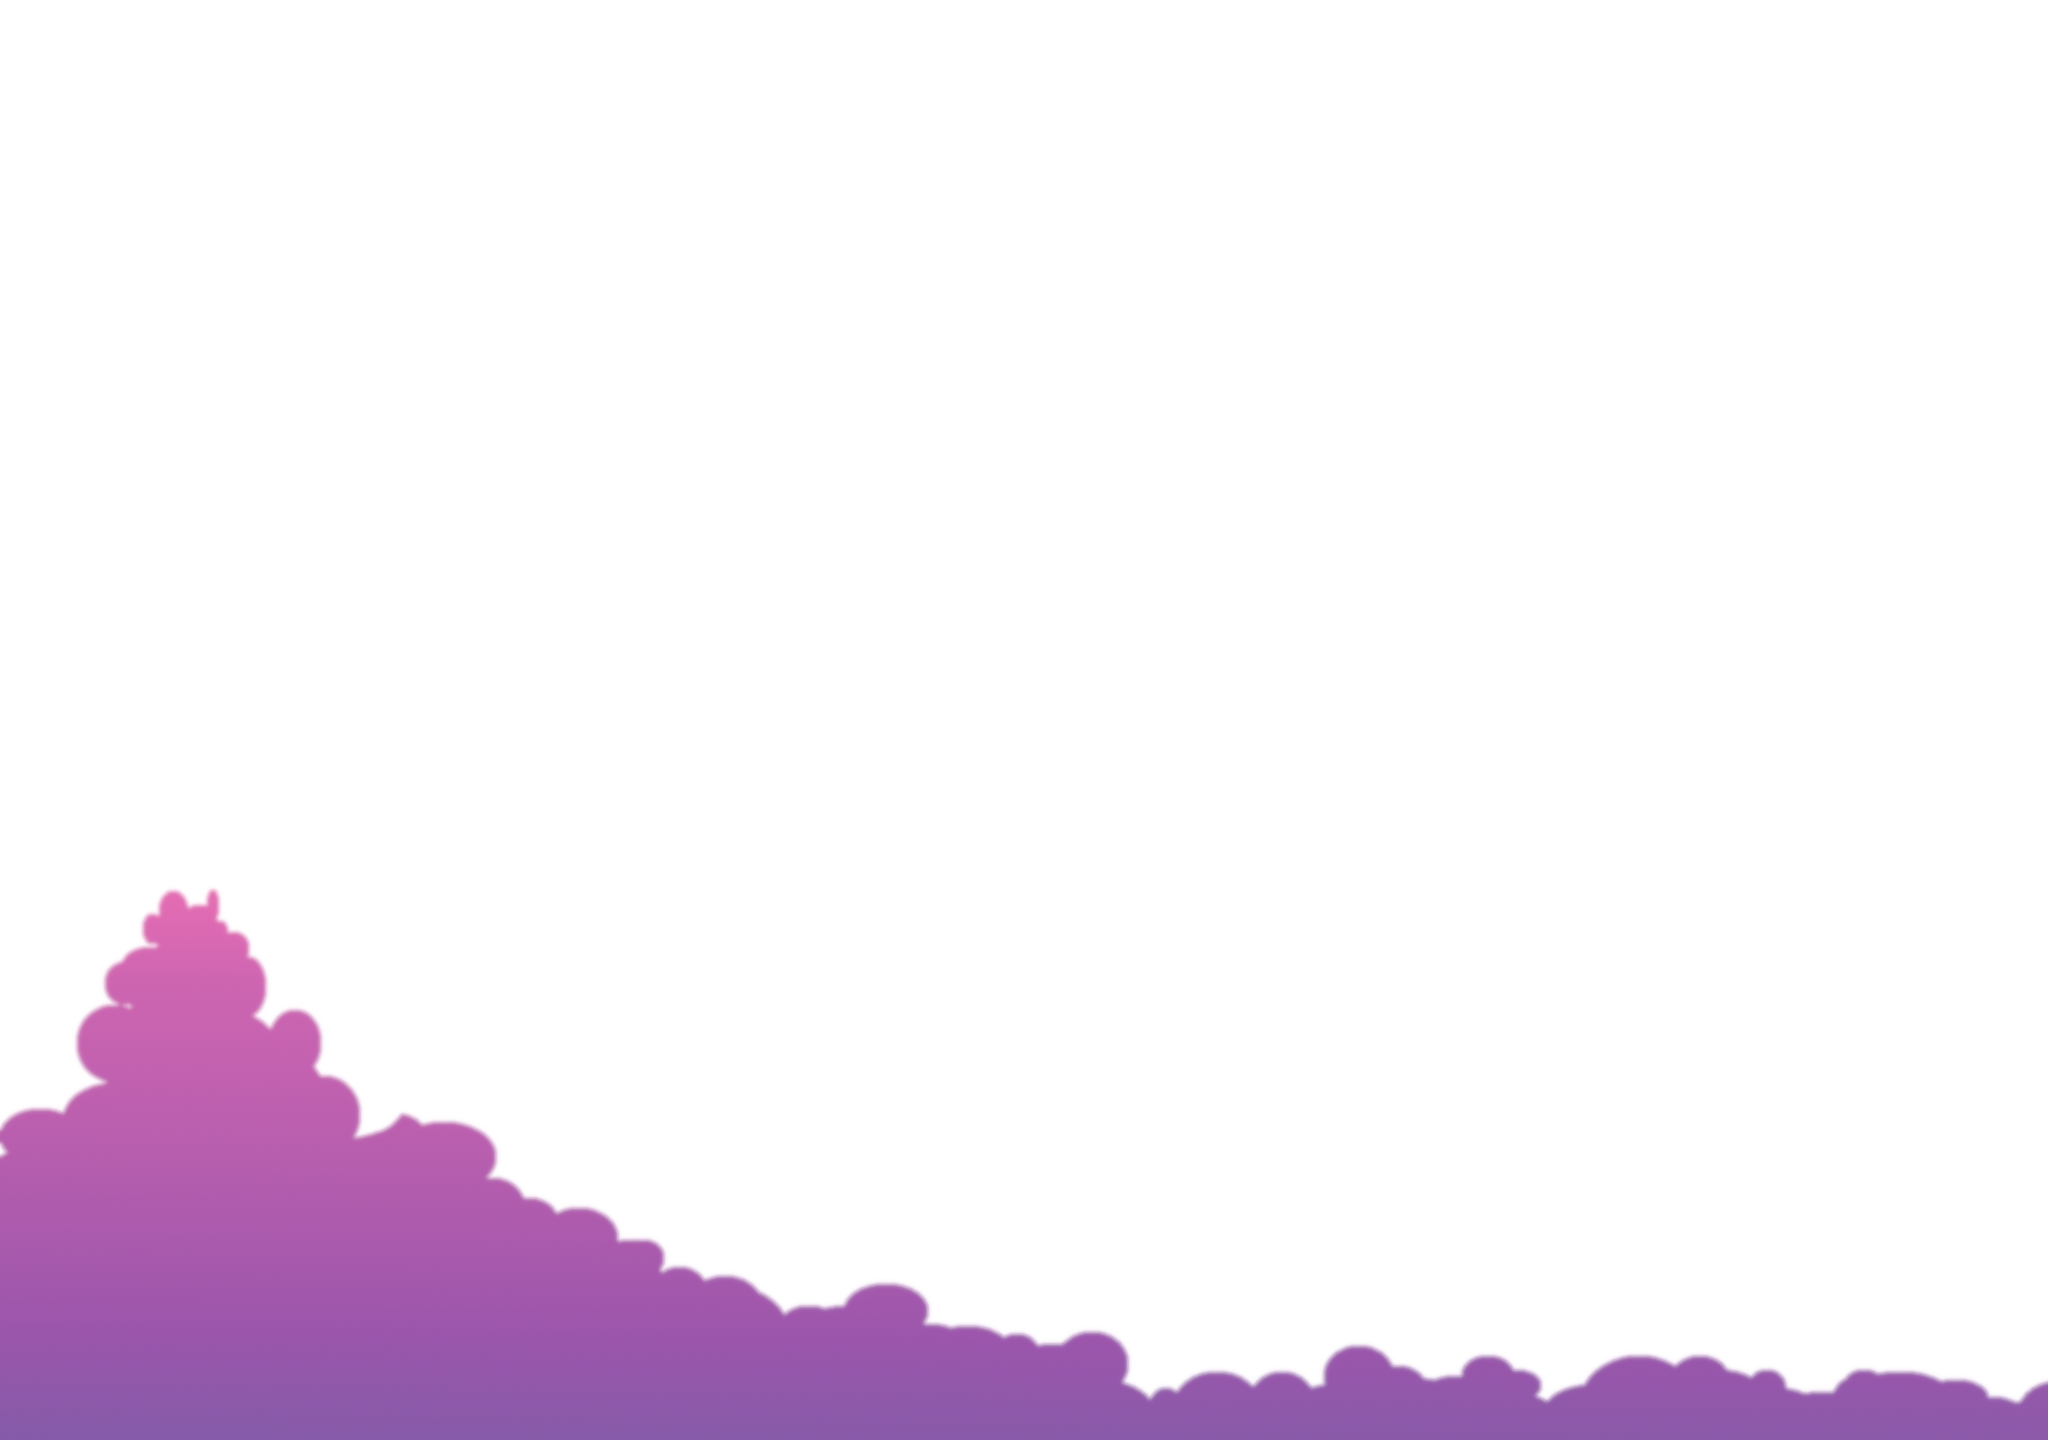
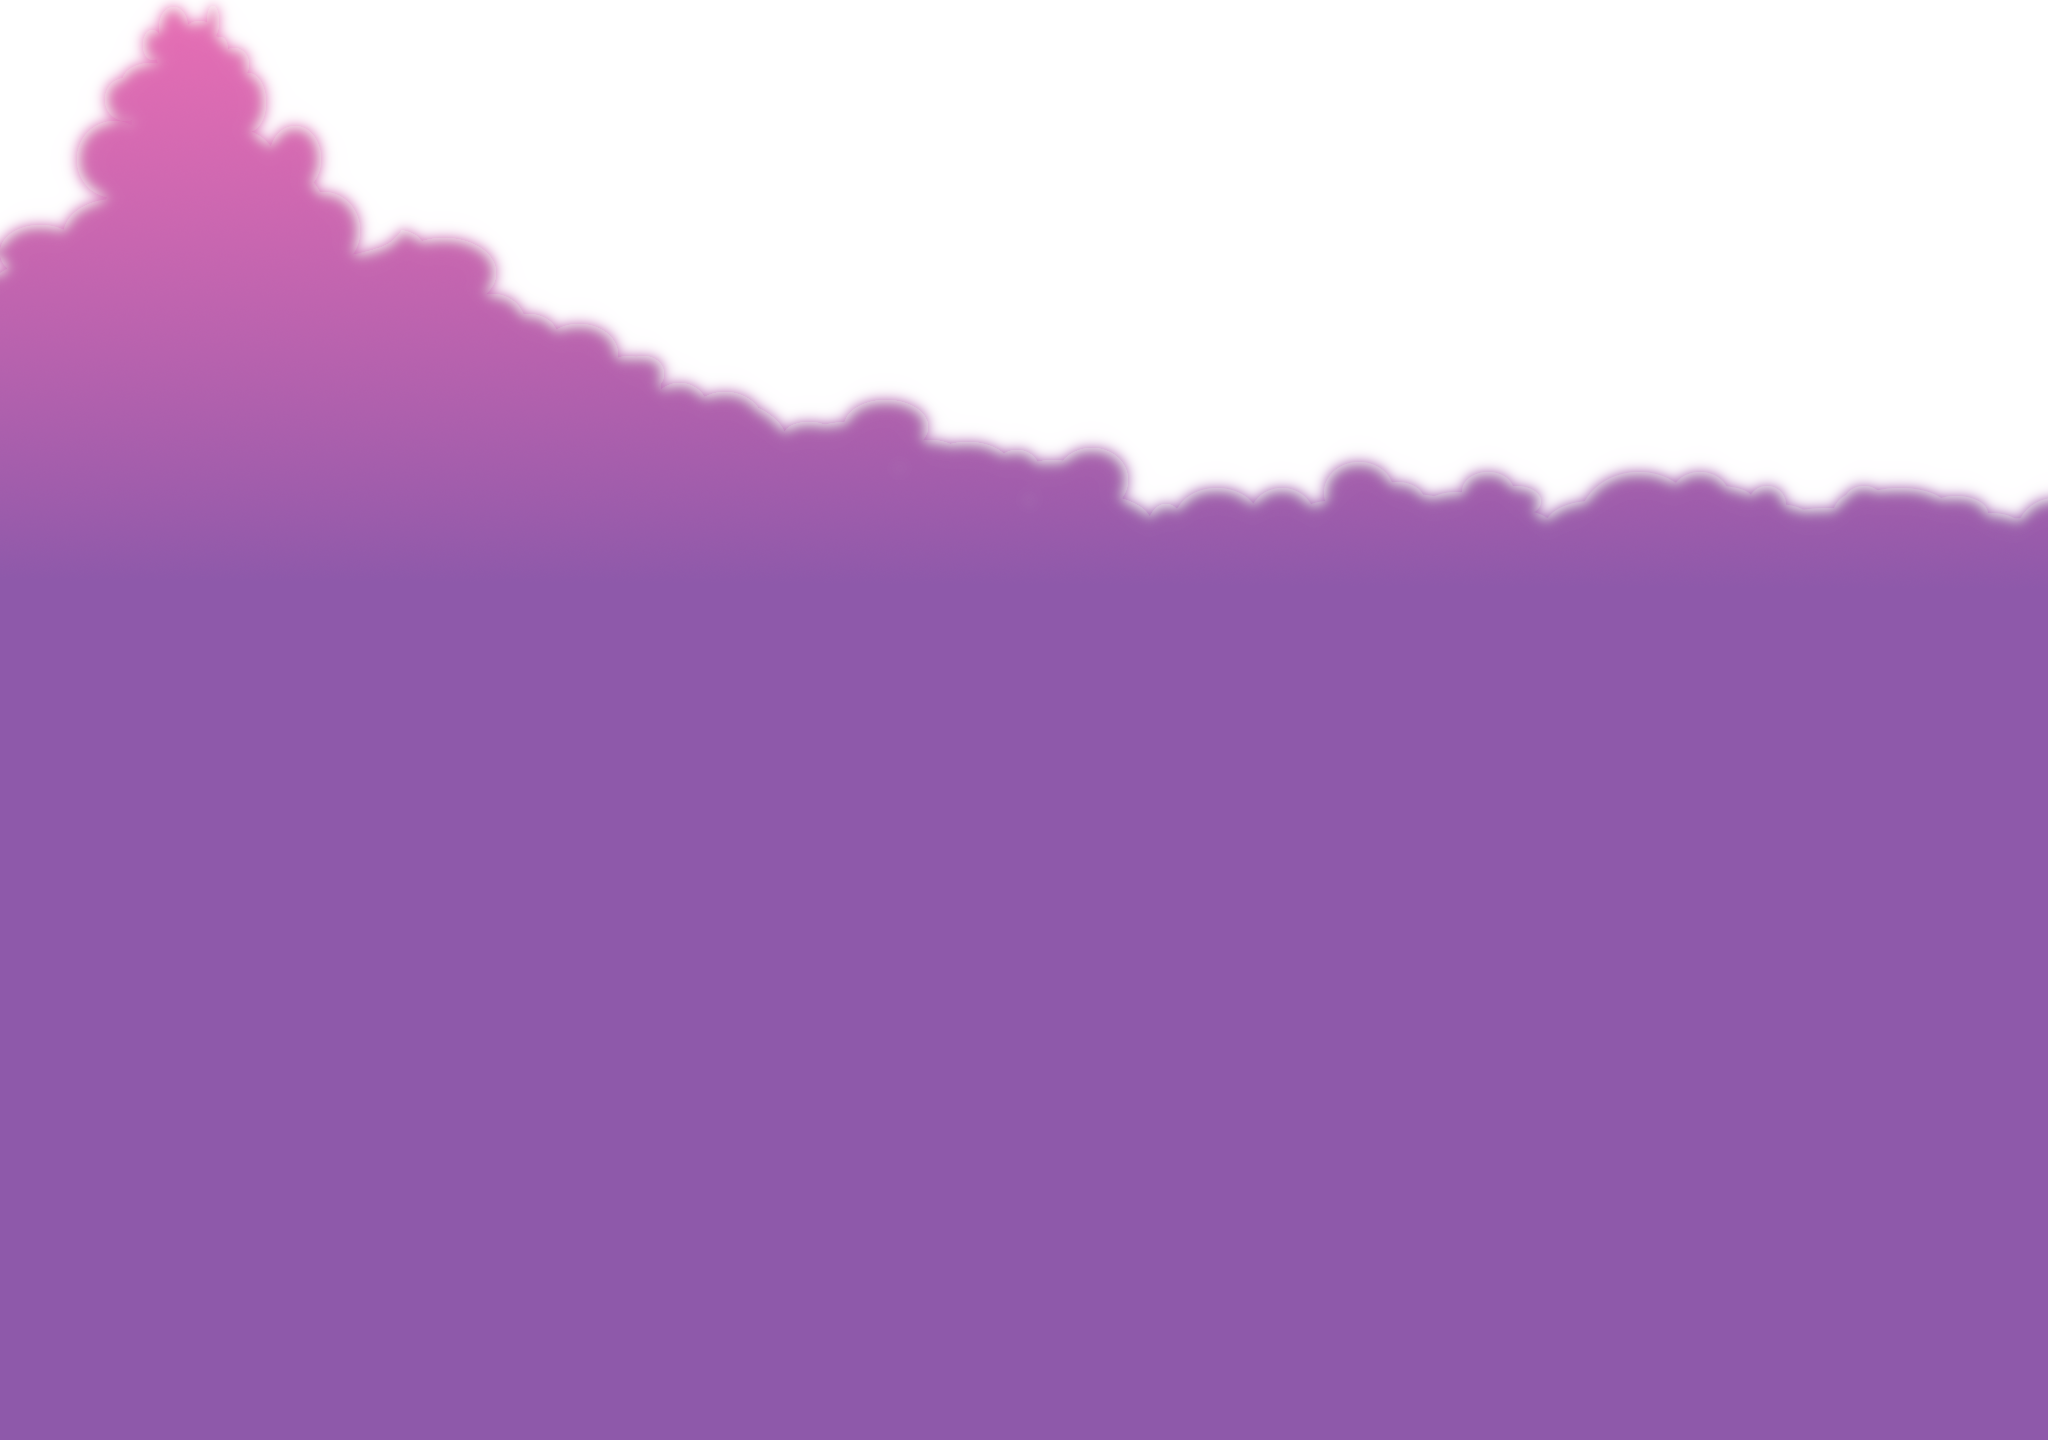
(づ ◕‿◕ )づ  ITS SO COOL AHHHHHH

diff --git a/build/index.html b/build/index.html
@@ -64,24 +64,34 @@
 
 
         <section id="about"
-            class="transitionSection min-h-screen bg-gradient-to-b from-pink-400  via-sky-600 to-sky-800 z-0 flex items-center flex-col justify-end relative overflow-hidden">
+            class="transitionSection min-h-screen bg-gradient-to-b from-pink-400  via-sky-600 to-sky-700 z-0 flex items-center flex-col justify-end relative overflow-hidden">
+
+            <!--             <input type="text" autofocus>
+ -->
+            <img id="cloudAbout1"
+                class="absolute  w-full h-full top-[-10rem] left-0 pointer-events-none object-cover lg:object-fill"
+                src="../Images/About/cloudAbout1.png" alt="">
+
+            <img id="cloudAbout2"
+                class="absolute  w-full h-full top-[-10rem] left-0 pointer-events-none object-cover lg:object-fill"
+                src="../Images/About/cloudAbout2.png" alt="">
+
+            <div id="aboutContainer" class="absolute bottom-[35rem] w-[40rem] h-9w-[40rem]">
+                <h1 class="relative bottom-[2rem] text-center text-4xl font-bold text-white">About Rocket Explorer</h1>
+
+                <img src="../Images/About/ContainerTransparent.png" alt="container" class=" w-full h-full object-cover">
+
+                <div class="absolute inset-0 flex flex-col items-center justify-center text-white ">
 
 
-            <div id="aboutContainer" class="absolute w-full h-full bottom-[15rem]">
-                <img class="absolute w-full h-full object-cover" src="../Images/About/CloudContainer.png"
-                    alt="Cloud Container">
-
-                <div class="absolute mb-[15rem] inset-0 flex flex-col justify-center items-center text-center ">
-                    <h1 class="relative bottom-[7rem] text-4xl font-bold text-white">About Rocket Explorer</h1>
-                    <p
-                        class="text-base lg:text-lg text-white px-[1.5rem] sm:px-[7rem] md:px-[14rem] lg:px-[22rem] xl:px-[30rem] ">
+                    <p class="text-center text-base lg:text-lg text-white mx-[6rem] relative bottom-[-2rem]">
                         At Rocket Explorer, we sell tickets for an unforgettable journey beyond Earth. Whether you're
                         dreaming
                         of touching the stars, seeing our planet from space, or experiencing weightlessness, we make it
                         possible. Our state-of-the-art rockets are designed for both safety and comfort, ensuring you
                         have
                         the best adventure of your life.
-                        <br><br>
+
                         Our experienced team is dedicated to providing a seamless and thrilling experience, from the
                         moment
                         you book your ticket to your return to Earth. Join us at Rocket Explorer, and take the first
@@ -91,15 +101,14 @@
                 </div>
             </div>
 
+
             <img class="absolute  w-full h-full top-0 left-0 pointer-events-none object-cover lg:object-fill"
                 src="../Images/About/CloudTop.png" alt="cloud">
 
-            <img id="Cloud1"
-                class="absolute  w-full h-full top-[-10rem] left-0 pointer-events-none object-cover lg:object-fill"
-                src="../Images/About/Cloud1.png" alt="">
+
 
             <img id="rocket"
-                class="absolute  w-auto h-full top-[13rem] left-0 pointer-events-none object-cover lg:object-fill"
+                class="absolute  w-auto h-full top-[40rem] left-0 pointer-events-none object-cover lg:object-fill"
                 src="../Images/About/rocket.png" alt="">
 
             <h1 id="rocketExplorerText" class="text-white text-[4rem]  my-[3.5rem] relative left-[900px]">ROCKET
@@ -111,7 +120,7 @@
                 src="../Images/About/outerCloudAbout.png" alt="">
 
             <img id="rocketSmoke"
-                class=" absolute  w-full h-full  left-0 pointer-events-none object-cover lg:object-fill "
+                class=" absolute  w-full h-full  left-0 top-[48rem] pointer-events-none object-cover lg:object-fill "
                 src="../Images/About/rocketSmoke.png" alt="">
         </section>
 

diff --git a/build/css/style.css b/build/css/style.css
@@ -554,6 +554,40 @@ video {
   display: none;
 }
 
+.container {
+  width: 100%;
+}
+
+@media (min-width: 640px) {
+  .container {
+    max-width: 640px;
+  }
+}
+
+@media (min-width: 768px) {
+  .container {
+    max-width: 768px;
+  }
+}
+
+@media (min-width: 1024px) {
+  .container {
+    max-width: 1024px;
+  }
+}
+
+@media (min-width: 1280px) {
+  .container {
+    max-width: 1280px;
+  }
+}
+
+@media (min-width: 1536px) {
+  .container {
+    max-width: 1536px;
+  }
+}
+
 .pointer-events-none {
   pointer-events: none;
 }
@@ -574,16 +608,16 @@ video {
   bottom: 0px;
 }
 
-.bottom-\[15rem\] {
-  bottom: 15rem;
+.bottom-\[-2rem\] {
+  bottom: -2rem;
 }
 
 .bottom-\[2rem\] {
   bottom: 2rem;
 }
 
-.bottom-\[7rem\] {
-  bottom: 7rem;
+.bottom-\[35rem\] {
+  bottom: 35rem;
 }
 
 .left-0 {
@@ -606,8 +640,12 @@ video {
   top: -10rem;
 }
 
-.top-\[13rem\] {
-  top: 13rem;
+.top-\[40rem\] {
+  top: 40rem;
+}
+
+.top-\[48rem\] {
+  top: 48rem;
 }
 
 .z-0 {
@@ -622,6 +660,11 @@ video {
   margin: 1.25rem;
 }
 
+.mx-\[6rem\] {
+  margin-left: 6rem;
+  margin-right: 6rem;
+}
+
 .my-5 {
   margin-top: 1.25rem;
   margin-bottom: 1.25rem;
@@ -630,10 +673,6 @@ video {
 .my-\[3\.5rem\] {
   margin-top: 3.5rem;
   margin-bottom: 3.5rem;
-}
-
-.mb-\[15rem\] {
-  margin-bottom: 15rem;
 }
 
 .flex {
@@ -650,6 +689,10 @@ video {
 
 .min-h-screen {
   min-height: 100vh;
+}
+
+.w-\[40rem\] {
+  width: 40rem;
 }
 
 .w-auto {
@@ -753,8 +796,8 @@ video {
   --tw-gradient-to: #581c87 var(--tw-gradient-to-position);
 }
 
-.to-sky-800 {
-  --tw-gradient-to: #075985 var(--tw-gradient-to-position);
+.to-sky-700 {
+  --tw-gradient-to: #0369a1 var(--tw-gradient-to-position);
 }
 
 .to-violet-950 {
@@ -784,11 +827,6 @@ video {
   padding-right: 1.5rem;
 }
 
-.px-\[1\.5rem\] {
-  padding-left: 1.5rem;
-  padding-right: 1.5rem;
-}
-
 .py-10 {
   padding-top: 2.5rem;
   padding-bottom: 2.5rem;
@@ -805,10 +843,6 @@ video {
 
 .font-mono {
   font-family: ui-monospace, SFMono-Regular, Menlo, Monaco, Consolas, "Liberation Mono", "Courier New", monospace;
-}
-
-.font-serif {
-  font-family: ui-serif, Georgia, Cambria, "Times New Roman", Times, serif;
 }
 
 .text-2xl {
@@ -870,7 +904,7 @@ video {
   bottom: 0;
   width: 100%;
   height: 20px;
-  background: linear-gradient(to top, #9358AA  ,transparent);
+  background: linear-gradient(to top, #8E59AA  ,transparent);
   z-index: 1000;
 }
 
@@ -885,40 +919,14 @@ video {
   pointer-events: none;
 }
 
-@media (min-width: 640px) {
-  .sm\:px-\[7rem\] {
-    padding-left: 7rem;
-    padding-right: 7rem;
-  }
-}
-
-@media (min-width: 768px) {
-  .md\:px-\[14rem\] {
-    padding-left: 14rem;
-    padding-right: 14rem;
-  }
-}
-
 @media (min-width: 1024px) {
   .lg\:object-fill {
     -o-object-fit: fill;
        object-fit: fill;
   }
 
-  .lg\:px-\[22rem\] {
-    padding-left: 22rem;
-    padding-right: 22rem;
-  }
-
   .lg\:text-lg {
     font-size: 1.125rem;
     line-height: 1.75rem;
-  }
-}
-
-@media (min-width: 1280px) {
-  .xl\:px-\[30rem\] {
-    padding-left: 30rem;
-    padding-right: 30rem;
   }
 }

diff --git a/build/index.js b/build/index.js
@@ -48,23 +48,40 @@ function homeParallax()
 function AboutParallax()
 {
     const aboutContainer = document.getElementById("aboutContainer");
-    const Cloud1 = document.getElementById("Cloud1");
+    const cloudAbout1 = document.getElementById("cloudAbout1");
+    const cloudAbout2 = document.getElementById("cloudAbout2");
     const rocket = document.getElementById("rocket");
     const outerCloudAbout = document.getElementById("outerCloudAbout");
     const rocketSmoke = document.getElementById("rocketSmoke");
     const rocketExplorerText = document.getElementById("rocketExplorerText");
 
+    console.log(rocketSmoke.style.transform)
 
     window.addEventListener('scroll', function ()
     {
         var scrollY = window.scrollY;
 
+        const aboutSection = document.getElementById("about");
+        const rect = aboutSection.getBoundingClientRect();
+
+
+
+        // If the sections lowest area has been scrolled by the user, then make the smoke go up too
+        rocketSmoke.style.transform = `translateY(${scrollY * -0.3}px)`; // I CAN'T );
+
         aboutContainer.style.transform = `translateY(${scrollY * 0.5}px)`;
 
-        rocket.style.transform = `translateY(${scrollY * -0.3}px)`;
-        rocketExplorerText.style.transform = `translateX(${scrollY * -1}px)`;
+        rocket.style.transform = `translateY(${scrollY * -0.9}px)`;
+        rocketExplorerText.style.transform = `translateX(${scrollY * -1.05}px)`;
 
-        Cloud1.style.transform = `translateY(${scrollY * 0.15}px)`
+        cloudAbout1.style.transform = `translate(${scrollY * 0.1}px, ${scrollY * -0.15}px) 
+        scale(${1 + (scrollY * -0.0003)}, ${1 + (scrollY * -0.0003)})`;
+
+        /*   cloudAbout2.style.transform = `translate(${scrollY * 0.3}px, ${scrollY * -0.2}px) 
+          scale(${1 + (scrollY * -0.0001)}, ${1 + (scrollY * -0.0001)})`; */
+
+
+
         outerCloudAbout.style.transform = `translateX(${scrollY * 0.15}px)`
 
     });

diff --git a/src/input.css b/src/input.css
@@ -15,7 +15,7 @@
     width: 100%;
     height: 20px;
 
-    background: linear-gradient(to top, #9358AA  ,transparent);
+    background: linear-gradient(to top, #8E59AA  ,transparent);
 
     z-index: 1000;
 }
